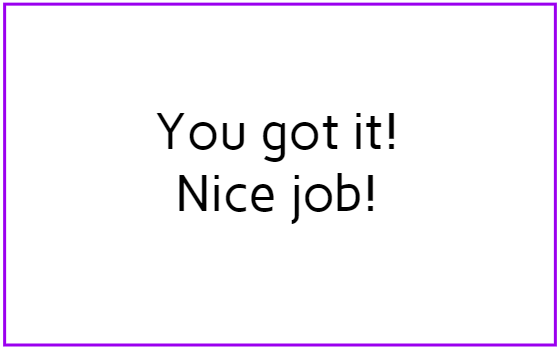
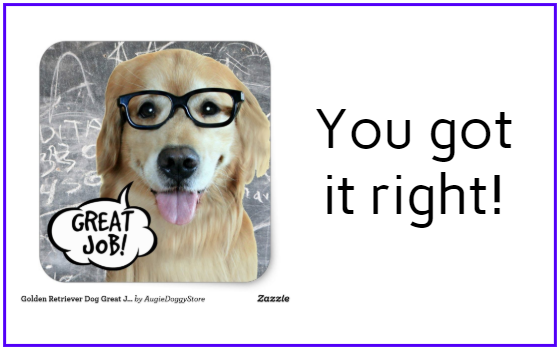
added more buttons

diff --git a/src/scripts/scenes/percentYield.ts b/src/scripts/scenes/percentYield.ts
@@ -1,8 +1,9 @@
-import button from "../objects/button";
 import practiceQ from "../objects/practiceQ";
+import button from '../objects/button';
 import rxnImage from "../objects/rxnImage";
+import buttonOutline from "../objects/buttonOutline";
 
-export default class reactantLeft extends Phaser.Scene{
+export default class percentYield extends Phaser.Scene{
     private questions: any;//figure out how to type this
     private rxnImages: any;
     private nameA: string;
@@ -19,6 +20,9 @@ export default class reactantLeft extends Phaser.Scene{
     private coD: number;
     private gA: number;
     private gB: number;
+    private selectedPdt: string;
+    private selectedQ: practiceQ;
+    private pdtG: number;
     private nextButton: button;
     private qLabel: Phaser.GameObjects.BitmapText;
     private qLabel2: Phaser.GameObjects.BitmapText;
@@ -33,20 +37,29 @@ export default class reactantLeft extends Phaser.Scene{
     private answer: any;
     private correctpic: Phaser.GameObjects.Image;
     private backButton: button;
-    private selectedQ: practiceQ;
-    private excess: number;
-    private wrongLR: number;
-    private noMolespic: Phaser.GameObjects.Image;
+    private py: number;
+    private IDLRButton: button;
+    private PFButton: button;
+    private RLButton: button;
+    private IDLRBO: buttonOutline; //=ID Limiting Reactant Button Outline
+    private PFBO: buttonOutline;
+    private RLBO: buttonOutline;
+    private backOutline: buttonOutline;
+    private nextOutline: buttonOutline;
 
 
     constructor(){
-        super({key: 'reactantLeftScene'});
+        super({key: 'percentYieldScene'});
     }
 
     create(){
-
         this.nextButton=new button(this, 100, 375, "nextButton", 0.7);
         this.nextButton.on('pointerdown', ()=>this.getNext(), this);
+        this.nextOutline = new buttonOutline(this, 100, 375, "nextButton", 0.7, 0x20014a);
+        this.nextButton.on('pointerover', ()=>this.nextOutline.enterHoverState(), this);
+        this.nextButton.on('pointerout', ()=>this.nextOutline.exitHoverState("word"), this);
+
+        this.add.text(410, 170, "Round to the nearest percent", {fill: "000000"});
 
         this.qLabel = this.add.bitmapText(20, 20, "pixelFont");
         this.qLabel.setFontSize(30);
@@ -55,21 +68,20 @@ export default class reactantLeft extends Phaser.Scene{
         this.qLabel2=this.add.bitmapText(20, 100, "pixelFont");
         this.qLabel2.setFontSize(30);
         this.qLabel2.setTintFill(0x000000);
-        this.qLabel2.setText("How many grams of excess reactant remain at the end of the reaction?")
+        this.qLabel2.setText("What is the percent yield of the reaction?")
 
         this.backButton=new button(this, 750, 375, "backButton", 0.7);
         this.backButton.on('pointerdown', ()=>this.goBack(), this);
+        this.backOutline = new buttonOutline(this, 750, 375, "backButton", 0.7, 0x002607);
+        this.backButton.on('pointerover', ()=>this.backOutline.enterHoverState(), this);
+        this.backButton.on('pointerout', ()=>this.backOutline.exitHoverState("word"), this);
 
         this.MWbox=this.add.image(90, 250, "MWbox");
         this.MWbox.setScale(0.3);
 
-        this.correctpic=this.add.image(550, 275, "correct");
-        this.correctpic.setScale(0.4);
+        this.correctpic=this.add.image(550, 260, "correct");
+        this.correctpic.setScale(0.5);
         this.correctpic.setAlpha(0.0);
-
-        this.noMolespic=this.add.image(550, 250, "noMoles");
-        this.noMolespic.setScale(0.4);
-        this.noMolespic.setAlpha(0.0);
 
         this.mwALabel = this.add.bitmapText(25, 200, "pixelFont");
         this.mwALabel.setFontSize(25);
@@ -82,7 +94,25 @@ export default class reactantLeft extends Phaser.Scene{
         this.mwCLabel.setTintFill(0x000000);
         this.mwDLabel = this.add.bitmapText(25, 290, "pixelFont");
         this.mwDLabel.setFontSize(25);
-        this.mwDLabel.setTintFill(0x000000);
+        this.mwDLabel.setTintFill(0x000000)
+
+        this.IDLRButton = new button(this, 330, 375, "IDLR", 0.7);
+        this.IDLRButton.on('pointerdown', ()=>this.goToIDLR(), this);
+        this.IDLRBO = new buttonOutline(this, 330, 375, "IDLR", 0.7, 0x6e1a01);
+        this.IDLRButton.on('pointerover', ()=>this.IDLRBO.enterHoverState(), this);
+        this.IDLRButton.on('pointerout', ()=>this.IDLRBO.exitHoverState("word"), this);
+
+        this.PFButton = new button(this, 470, 375, "PdtFormed", 0.7);
+        this.PFButton.on('pointerdown', ()=>this.goToPF(), this);
+        this.PFBO = new buttonOutline(this, 470, 375, "PdtFormed", 0.7, 0x6e1a01);
+        this.PFButton.on('pointerover', ()=>this.PFBO.enterHoverState(), this);
+        this.PFButton.on('pointerout', ()=>this.PFBO.exitHoverState("word"), this);
+
+        this.RLButton = new button(this, 600, 375, "ReactantLeft", 0.7);
+        this.RLButton.on('pointerdown', ()=>this.goToRL(), this);
+        this.RLBO = new buttonOutline(this, 600, 375, "ReactantLeft", 0.7, 0x6e1a01);
+        this.RLButton.on('pointerover', ()=>this.RLBO.enterHoverState(), this);
+        this.RLButton.on('pointerout', ()=>this.RLBO.exitHoverState("word"), this);
 
         this.questions = new Array;
         this.questions.push(new practiceQ("SO2", 64.07, "PCl5", 208.24, "SOCl2", 118.97, "POCl3", 153.3, 1, 1, 1, 1));
@@ -90,24 +120,25 @@ export default class reactantLeft extends Phaser.Scene{
         this.questions.push(new practiceQ("NH3", 17.03, "O2", 32.00, "NO", 30.01, "H2O", 18.02, 4, 5, 4, 6));
         this.questions.push(new practiceQ("C2H4", 26.04, "O2", 32.00, "CO2", 44.01, "H2O", 18.02, 1, 1, 2, 2));
         this.questions.push(new practiceQ("Si", 28.09, "N2", 28.01, "Si3N4", 140.28, "", 0, 3, 2, 1, 0));
-    
+
         this.rxnImages=new Array;
         this.rxnImages.push(new rxnImage(this, 175, 75, "SO2Rxn", 0.7));
         this.rxnImages.push(new rxnImage(this, 175, 75, "FeCl2Rxn", 0.7));
         this.rxnImages.push(new rxnImage(this, 175, 75, "NH3Rxn", 0.7));
         this.rxnImages.push(new rxnImage(this, 175, 75, "C2H4Rxn", 0.7));
         this.rxnImages.push(new rxnImage(this, 175, 75, "SiRxn", 0.7));
-    
+        
         this.answerBox=this.add.dom(550, 150).createFromCache('inputForm');
         this.answerBox.addListener('click');
         this.answerBox.on('click', ()=>this.handleClick(event));
 
         this.getReactantG();
+        this.getPY();
         this.pickRxn();
-        this.findExcess();
+        this.pickCD();
+        this.findPdtG();
         this.updateQLabel();
         this.showPics();
-
     }
 
     handleClick(e){
@@ -120,9 +151,40 @@ export default class reactantLeft extends Phaser.Scene{
     }
 
     getReactantG(){
-        this.gA=Math.round(Math.random()*1000)/10;
+        this.gA=Math.round(Math.random()*1000)/100;
         console.log(this.gA);
-        this.gB=Math.round(Math.random()*1000)/10;
+        this.gB=Math.round(Math.random()*1000)/100;
+    }
+
+    getPY(){
+        this.py=Math.round(Math.random()*100)/100
+        console.log(this.py);
+    }
+
+    findPdtG(){
+        if (this.selectedPdt=='C'){
+            //A = # g C that can be made with given A
+            let A = (this.gA*this.coC*this.mwC)/(this.mwA*this.coA);
+            let B=(this.gB*this.coC*this.mwC)/(this.mwB*this.coB);
+            if (A<=B){
+                this.pdtG=A*this.py;
+            }
+            if (A>B){
+                this.pdtG=B*this.py;
+            }
+        }
+        if (this.selectedPdt=='D'){
+            //A = # g D that can be made with given A
+            let A = (this.gA*this.coD*this.mwD)/(this.mwA*this.coA);
+            let B=(this.gB*this.coD*this.mwD)/(this.mwB*this.coB);
+            if (A<=B){
+                this.pdtG=A*this.py;
+            }
+            if (A>B){
+                this.pdtG=B*this.py;
+            }
+        }
+        console.log(this.pdtG);
     }
 
     pickRxn(){
@@ -166,29 +228,27 @@ export default class reactantLeft extends Phaser.Scene{
         }
     }
 
+    pickCD(){
+        let num=Math.random();
+        if (this.coD==0){
+            this.selectedPdt="C";
+        }
+        if (num>=0.5&&this.coD!=0){
+            this.selectedPdt="C";
+        }
+        if (num<0.5&&this.coD!=0){
+            this.selectedPdt="D";
+        }
+    }
+
     updateQLabel(){
-        this.qLabel.text=this.gA + "g " + this.nameA + " reacts with "+ this.gB+"g "+this.nameB+" according to the following reaction:" 
-    }
-
-    update(){
-
-    }
-
-    findExcess(){
-        //A= number g B required to react with all of A
-        let A = (this.gA*this.coB*this.mwB)/(this.mwA*this.coA);
-        let B = (this.gB*this.coA*this.mwA)/(this.mwB*this.coB)
-        if (A>this.gB){
-            //B limits
-            this.excess=this.gA-B;
-            this.wrongLR=this.gB-A;
+        if (this.selectedPdt=="C"){
+           this.qLabel.text="In the lab, " + this.gA + "g " + this.nameA + " reacted with " + this.gB + "g " + this.nameB + " to form " + this.pdtG.toFixed(2) + "g " + this.nameC;
         }
-        if (A<=this.gB){
-            //A limits
-            this.excess=this.gB-A;
-            this.wrongLR=this.gA-B;
+        if (this.selectedPdt=="D"){
+            this.qLabel.text="How many grams of " + this.nameD + " are formed when " + this.gA.toString() + "g "+
+            this.nameA + " react with " + this.gB.toString() + "g " + this.nameB + "?"; 
         }
-        console.log(this.excess);
     }
 
     compare(){
@@ -196,25 +256,20 @@ export default class reactantLeft extends Phaser.Scene{
         this.answer=parseFloat(<string> this.answer);
         console.log(this.answer);
 
-        if(this.between(this.answer, this.excess+this.excess*.1, this.excess-this.excess*.1)){
+        if (this.between(this.answer, this.py*100+1, this.py*100-1)){
             this.correctpic.setAlpha(1.0);
         }
+    }
 
-        let A = this.gA - (this.gB*this.coA)/this.coB;
-        let B = this.gB - (this.gA*this.coB)/this.coA;
 
-        console.log("A is: " + A);
-
-        if (this.between(this.answer, A+A*.1, A-A*.1)||this.between(this.answer, B+B*.1, B-B*.1)){
-            this.noMolespic.setAlpha(1.0);
-        }
-
+    update(){
     }
 
     getNext(){
         this.getReactantG();
+        this.getPY();
         this.pickRxn();
-        this.findExcess();
+        this.pickCD();
         this.updateQLabel();
         this.showPics();
         this.resetPics();
@@ -222,7 +277,6 @@ export default class reactantLeft extends Phaser.Scene{
 
     resetPics(){
         this.correctpic.setAlpha(0.0);
-        this.noMolespic.setAlpha(0.0);
     }
 
     between(num: number, up: number, down: number){
@@ -236,5 +290,17 @@ export default class reactantLeft extends Phaser.Scene{
 
     goBack(){
         this.scene.start("MainScene");
+    }
+
+    goToIDLR(){
+        this.scene.start("pickLRScene");
+    }
+
+    goToPF(){
+        this.scene.start("pdtFormedScene");
+    }
+
+    goToRL(){
+        this.scene.start("reactantLeftScene");
     }
 }

diff --git a/src/scripts/scenes/pickLR.ts b/src/scripts/scenes/pickLR.ts
@@ -62,8 +62,8 @@ export default class pickLR extends Phaser.Scene{
         this.MWbox=this.add.image(90, 250, "MWbox");
         this.MWbox.setScale(0.3);
 
-        this.correctpic=this.add.image(550, 250, "correct");
-        this.correctpic.setScale(0.4);
+        this.correctpic=this.add.image(550, 275, "correct");
+        this.correctpic.setScale(0.5);
         this.correctpic.setAlpha(0.0);
 
         this.wrongLRpic=this.add.image(550, 250, "LRhelp");
@@ -191,13 +191,13 @@ export default class pickLR extends Phaser.Scene{
 
     compare(){
         this.resetPics();
-        if (this.answer==this.LR){
+        if (this.answer.toLowerCase()==this.LR.toLowerCase()){
             this.correctpic.setAlpha(1.0);
         }
-        if (this.answer==this.wrongLR){
+        if (this.answer.toLowerCase()==this.wrongLR.toLowerCase()){
             this.wrongLRpic.setAlpha(1.0);
         }
-        if (this.answer!=this.LR&&this.answer!=this.wrongLR) {
+        if (this.answer.toLowerCase()!=this.LR.toLowerCase()&&this.answer.toLowerCase()!=this.wrongLR.toLowerCase()) {
             this.helpPic.setAlpha(1.0);
         }
 

diff --git a/src/scripts/game.ts b/src/scripts/game.ts
@@ -14,6 +14,7 @@ import FeMolec from './scenes/FeMolec';
 import pdtFormed from './scenes/pdtFormed';
 import reactantLeft from './scenes/reactantLeft';
 import pickLR from './scenes/pickLR';
+import percentYield from './scenes/percentYield';
 import GameConfig = Phaser.Types.Core.GameConfig;
 
 const DEFAULT_WIDTH = 800;
@@ -29,7 +30,7 @@ const config: GameConfig = {
         width: DEFAULT_WIDTH,
         height: DEFAULT_HEIGHT
     },
-    scene: [PreloadScene, O2gs, pdtFormed, pickLR, reactantLeft, FeMolec, SpecScene, MainScene, cdScene, efScene, TempScene, PrecipScene, GramScene, abScene, MoleculeScene],
+    scene: [PreloadScene, O2gs, percentYield, pdtFormed, pickLR, reactantLeft, FeMolec, SpecScene, MainScene, cdScene, efScene, TempScene, PrecipScene, GramScene, abScene, MoleculeScene],
     physics: {
         default: 'arcade',
         arcade: {

diff --git a/src/scripts/scenes/preloadScene.ts b/src/scripts/scenes/preloadScene.ts
@@ -113,9 +113,13 @@ export default class PreloadScene extends Phaser.Scene {
     this.load.image("correct", "assets/images/correct.png");
     this.load.image("LRhelp", "assets/images/LRhelp.png");
     this.load.image("LRhelp2", "assets/images/LRhelp2.png");
+    this.load.image("PY", "assets/images/PY.png");
+    this.load.image("PdtFormed", "assets/images/PdtFormed.png");
+    this.load.image("IDLR", "assets/images/IDLR.png");
+    this.load.image("ReactantLeft", "assets/images/ReactantLeft.png");
   }
 
   create() {
-    this.scene.start('pickLRScene');
+    this.scene.start('percentYieldScene');
   }
 }

diff --git a/src/scripts/scenes/pdtFormed.ts b/src/scripts/scenes/pdtFormed.ts
@@ -57,7 +57,7 @@ export default class pdtFormed extends Phaser.Scene{
         this.MWbox=this.add.image(90, 200, "MWbox");
         this.MWbox.setScale(0.3);
 
-        this.correctpic=this.add.image(550, 250, "correct");
+        this.correctpic=this.add.image(550, 275, "correct");
         this.correctpic.setScale(0.5);
         this.correctpic.setAlpha(0.0);
 

diff --git a/src/assets/citations.md b/src/assets/citations.md
@@ -16,3 +16,4 @@ http://www.confessionsofachocoholic.com/restaurants/going-to-towne
 https://www.chem.ucla.edu/~harding/IGOC/A/azo_dye.html
 https://arrowpng.com/red-left-arrow-png/
 http://biomodel.uah.es/en/DIY/JSME/draw.en.htm
+https://www.zazzle.com/golden_retriever_dog_great_job_teacher_reward_square_sticker-217018283010913814?social=true&view=113898528794004394&rf=238723483809835767
